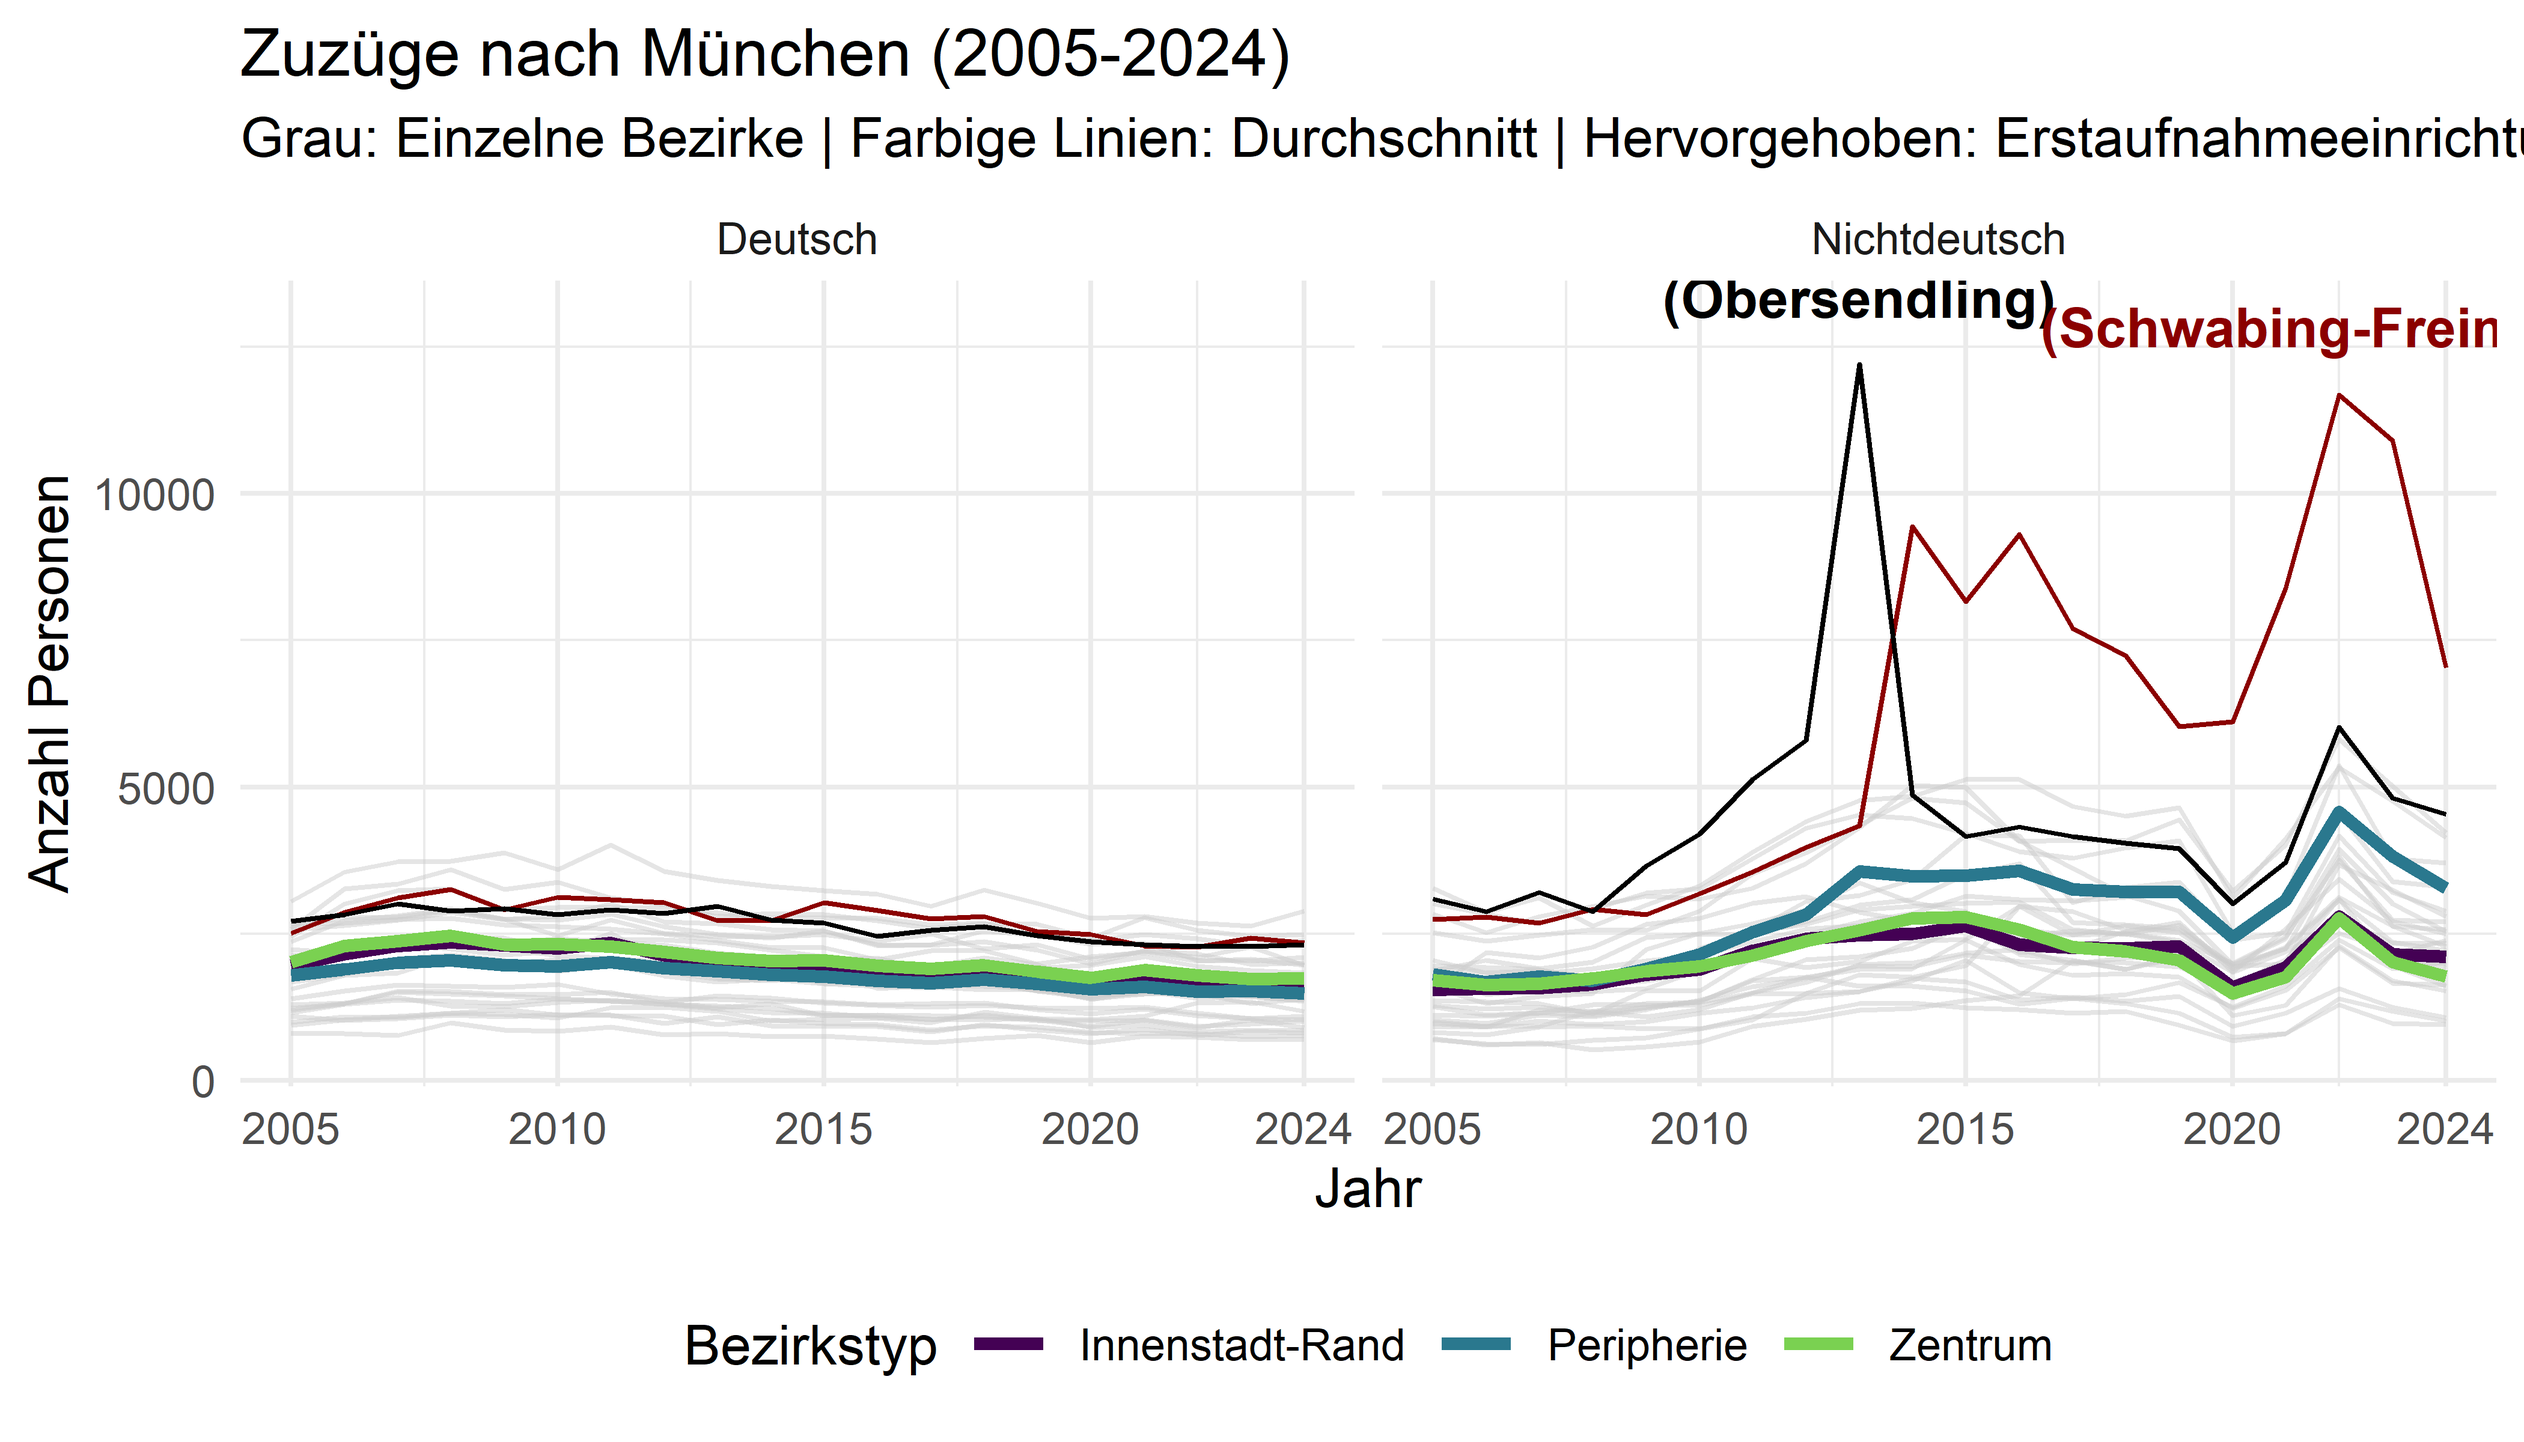
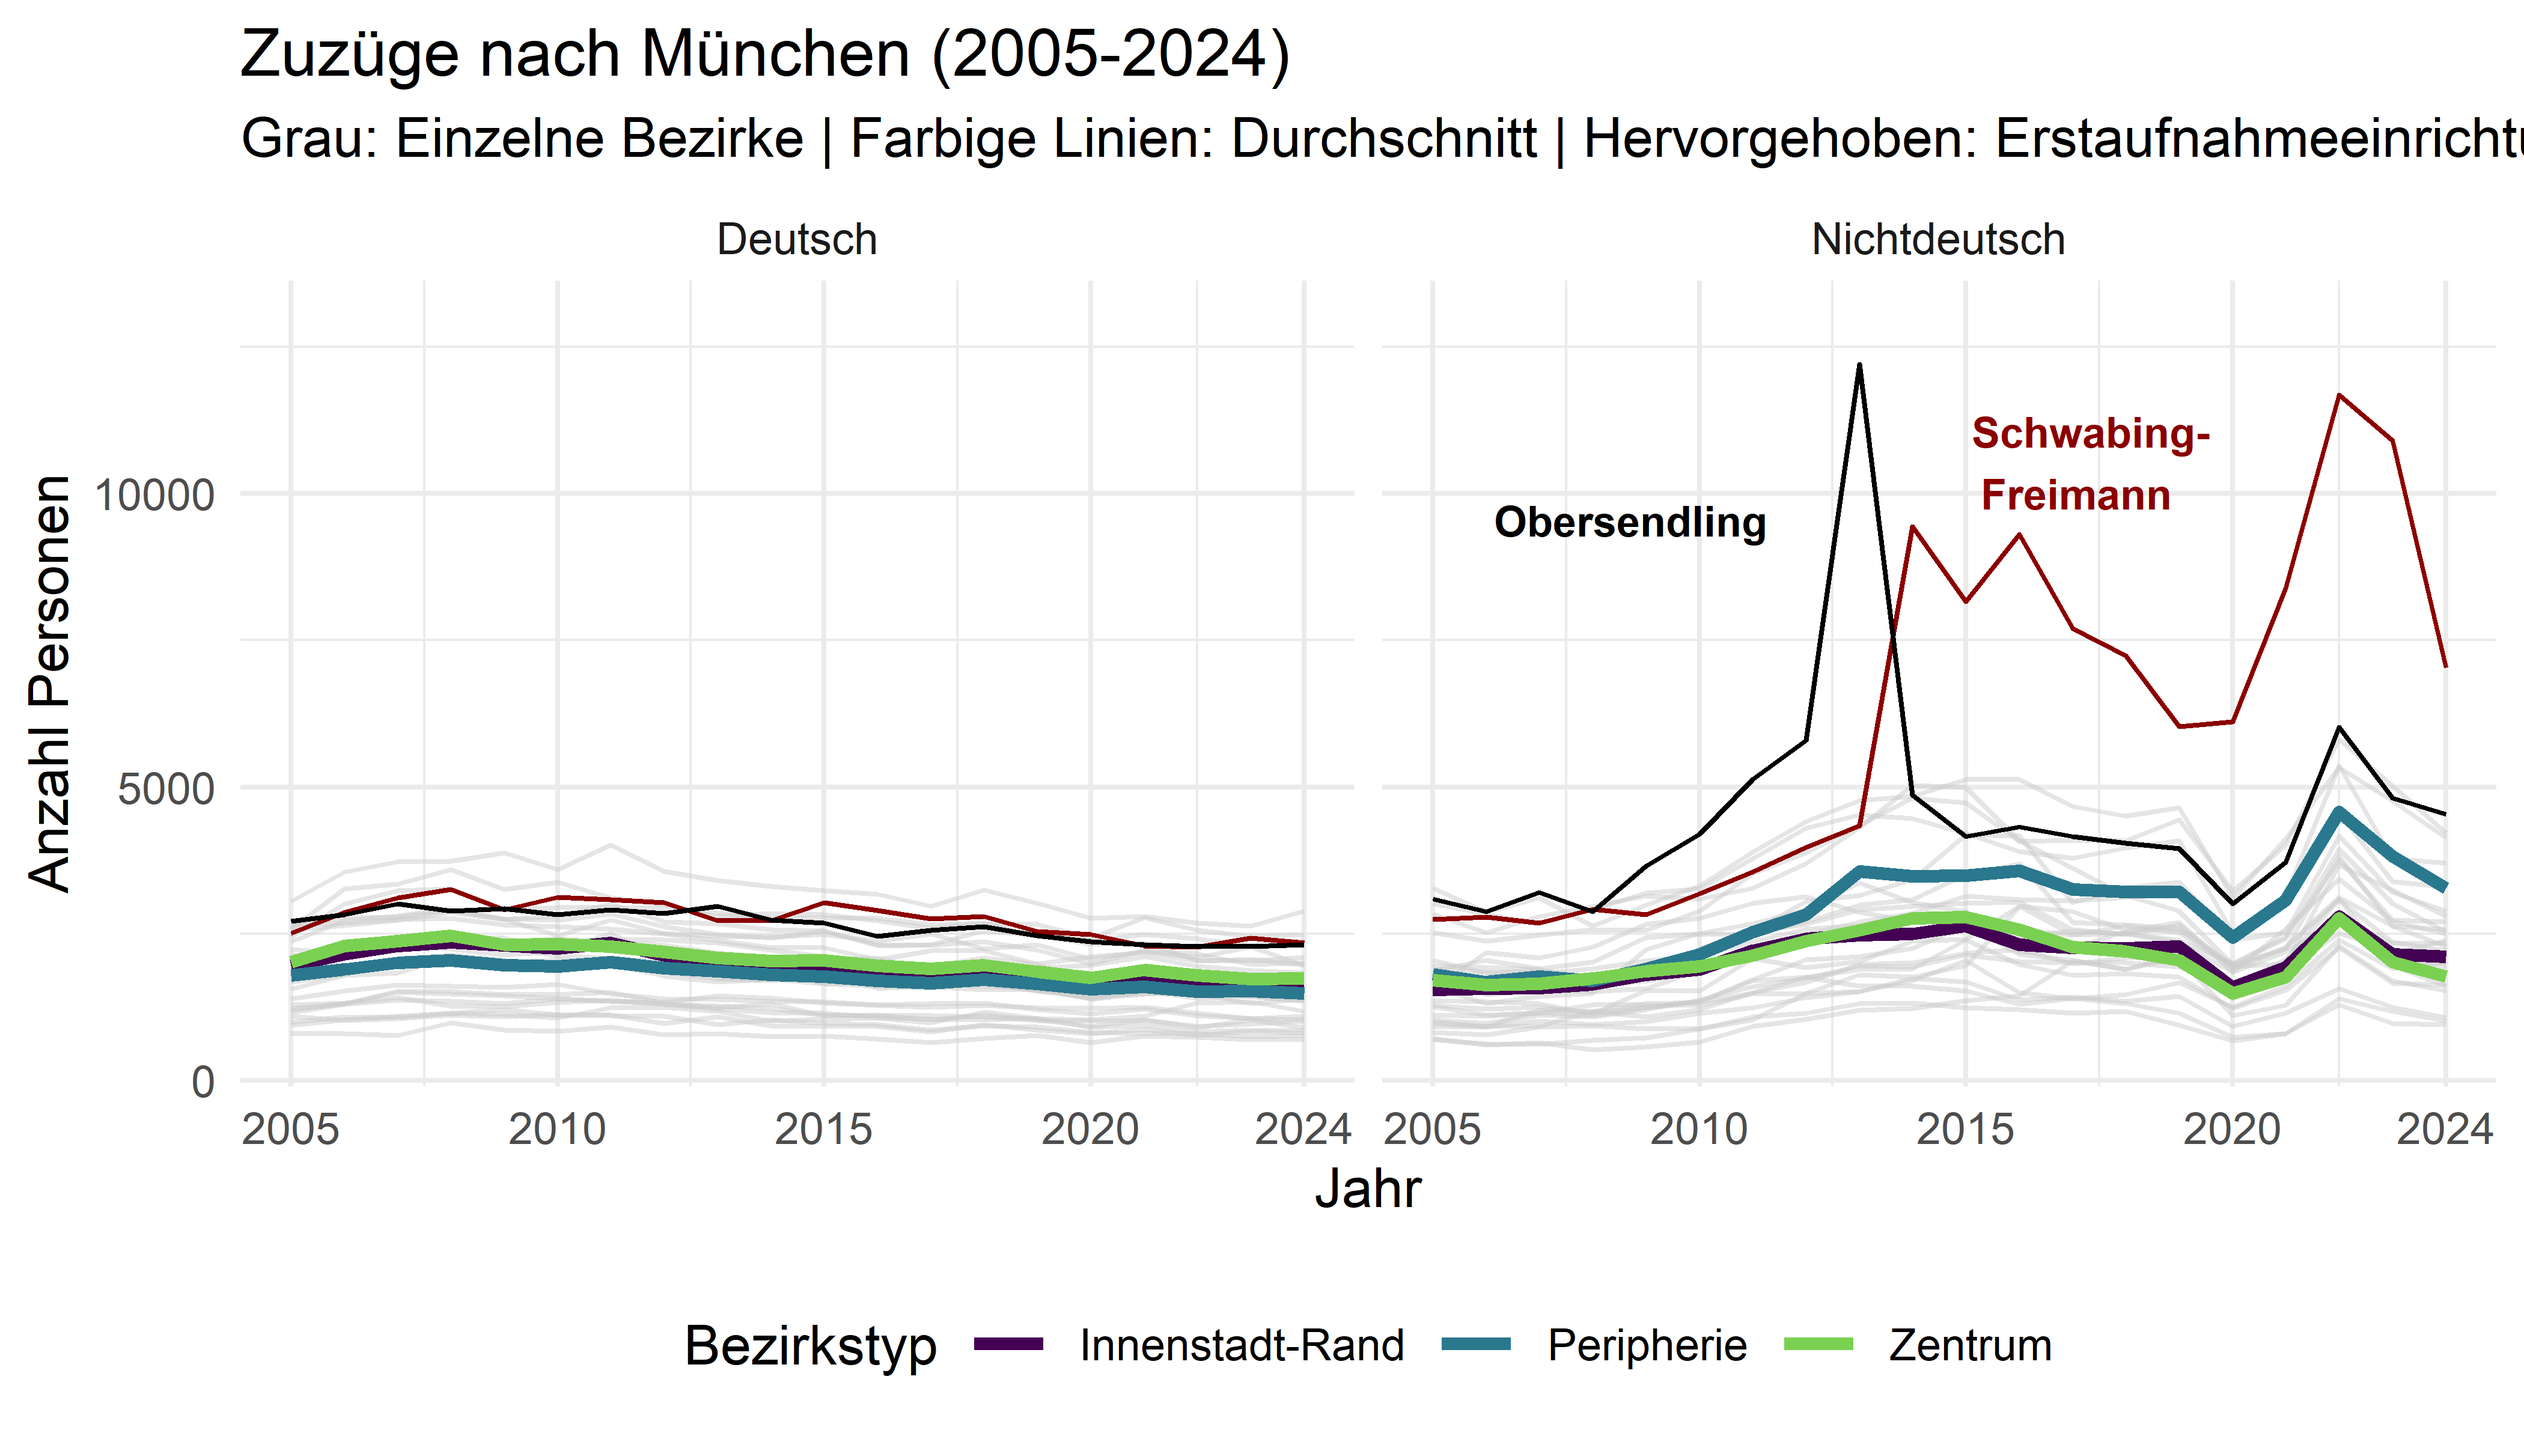
Beschriftung der Highlight um links verschoben, namen verändert und kleiner gemacht, damit es in die Präsentation passt.

Changed region(s): [[0.655, 0.1875, 0.9981, 0.25], [0.7798, 0.2812, 0.8733, 0.375], [0.5926, 0.3438, 0.7174, 0.375]]

diff --git a/presentation.html b/presentation.html
@@ -6,8 +6,8 @@
 <script src="presentation_files/libs/quarto-html/tippy.umd.min.js"></script>
 <link href="presentation_files/libs/quarto-html/tippy.css" rel="stylesheet">
 <link href="presentation_files/libs/quarto-html/light-border.css" rel="stylesheet">
-<link href="presentation_files/libs/quarto-html/quarto-syntax-highlighting-37eea08aefeeee20ff55810ff984fec1.css" rel="stylesheet" id="quarto-text-highlighting-styles"><meta charset="utf-8">
-  <meta name="generator" content="quarto-1.7.32">
+<link href="presentation_files/libs/quarto-html/quarto-syntax-highlighting-ed96de9b727972fe78a7b5d16c58bf87.css" rel="stylesheet" id="quarto-text-highlighting-styles"><meta charset="utf-8">
+  <meta name="generator" content="quarto-1.8.27">
 
   <meta name="author" content="Heinz Calderón, Christian Lex, Dennis Ley, Haoyang Yang">
   <title>Wohnungsmigration in München</title>
@@ -29,7 +29,7 @@
       vertical-align: middle;
     }
   </style>
-  <link rel="stylesheet" href="presentation_files/libs/revealjs/dist/theme/quarto-60426cfa0718c280d4a950e35f176248.css">
+  <link rel="stylesheet" href="presentation_files/libs/revealjs/dist/theme/quarto-97e690a65df25032e636c45403dbb044.css">
   <link href="presentation_files/libs/revealjs/plugin/quarto-line-highlight/line-highlight.css" rel="stylesheet">
   <link href="presentation_files/libs/revealjs/plugin/reveal-menu/menu.css" rel="stylesheet">
   <link href="presentation_files/libs/revealjs/plugin/reveal-menu/quarto-menu.css" rel="stylesheet">
@@ -153,7 +153,7 @@ Heinz Calderón, Christian Lex, Dennis Ley, Haoyang Yang
 <h2>Datenüberblick</h2>
 <div class="cell">
 <div class="cell-output-display">
-<table class="caption-top" data-quarto-postprocess="true">
+<table class="caption-top">
 <caption>Säule 1: Mobilitätsdaten (Auszug)</caption>
 <thead>
 <tr class="header">
@@ -183,7 +183,7 @@ Heinz Calderón, Christian Lex, Dennis Ley, Haoyang Yang
 </table>
 </div>
 <div class="cell-output-display">
-<table class="caption-top" data-quarto-postprocess="true">
+<table class="caption-top">
 <caption>Säule 2: Bevölkerungsdichte (Auszug)</caption>
 <thead>
 <tr class="header">
